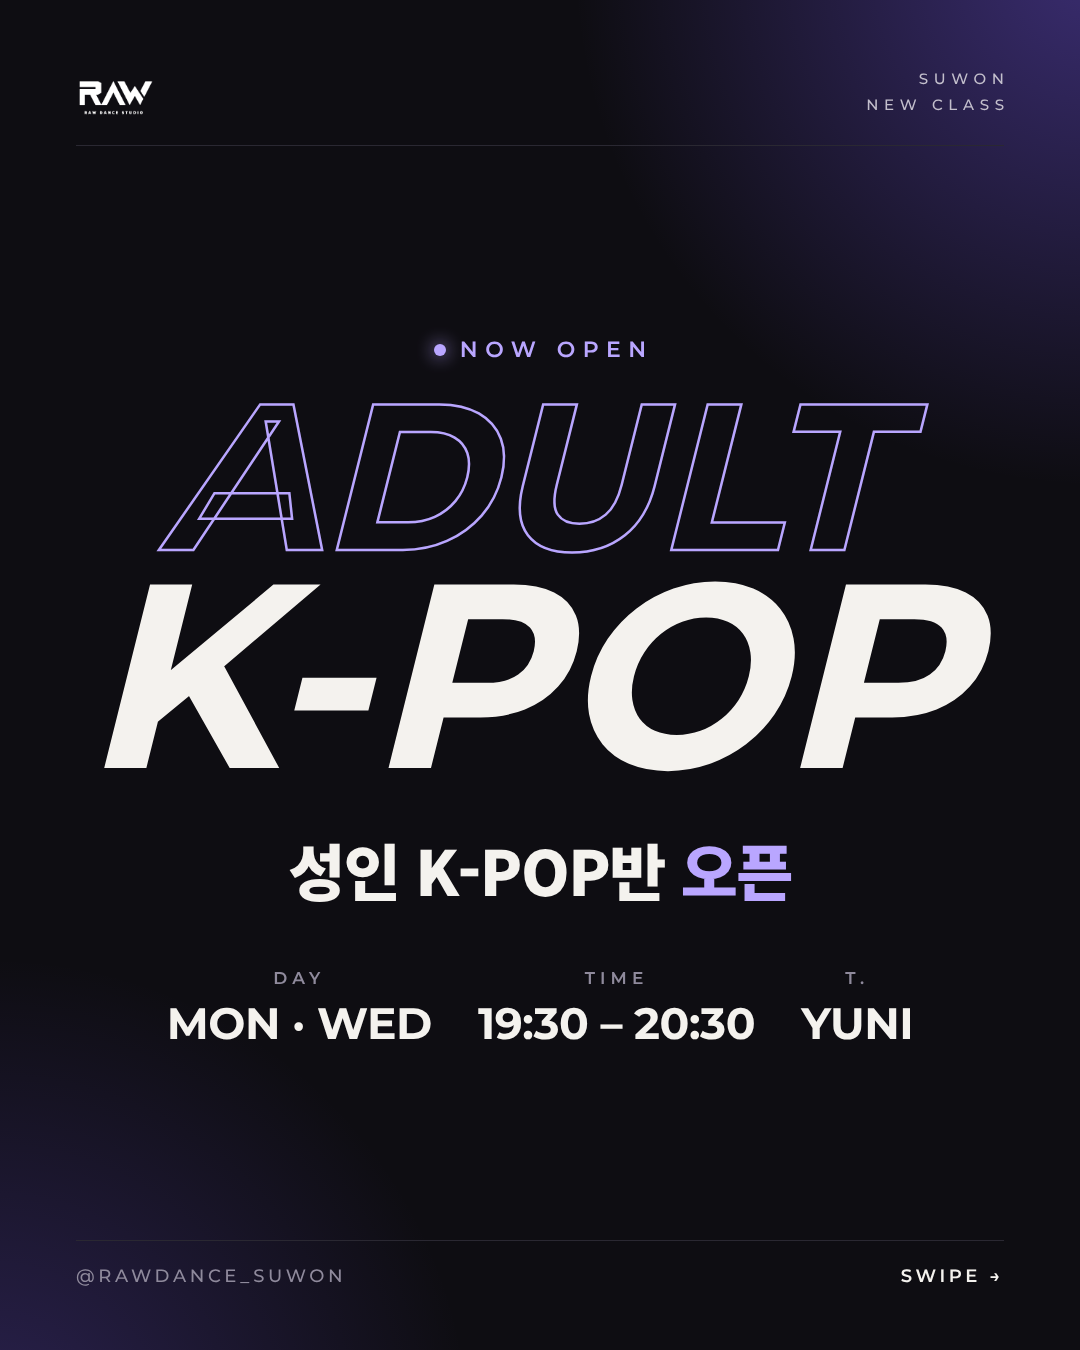
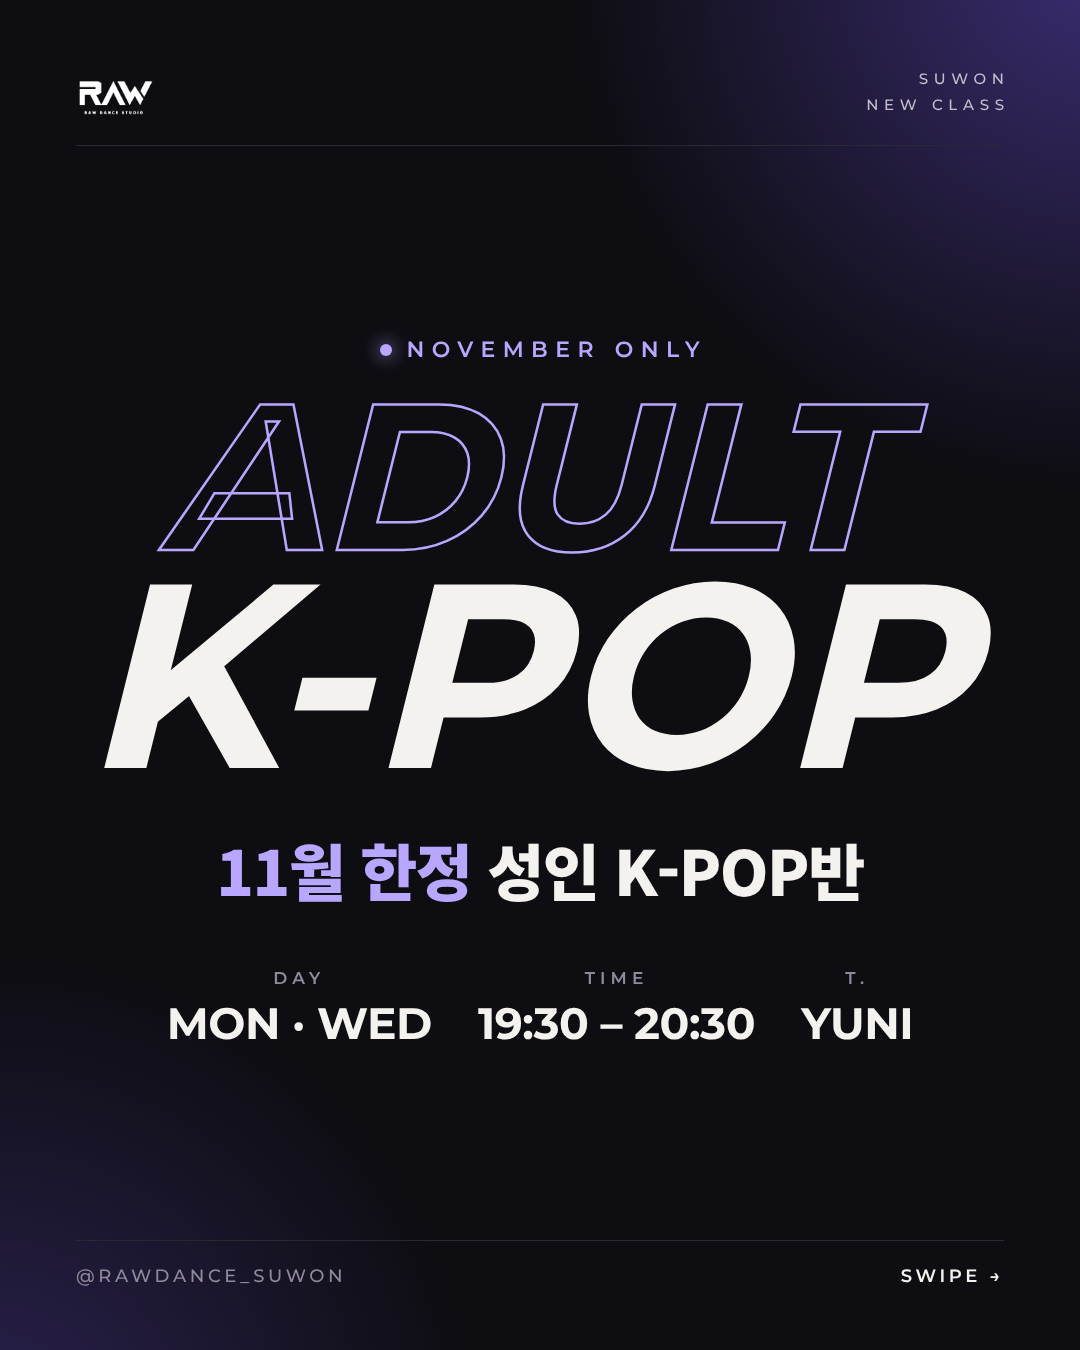
성인 K-POP반: 11월 한정으로 문구 변경 (카드·캡션·문자)
Claude-Session: https://claude.ai/code/session_01CMPXWNa21Fqq6srPZpa27D

Changed region(s): [[0.2139, 0.6222, 0.7944, 0.6844], [0.3361, 0.2489, 0.6111, 0.28]]

diff --git a/content/2026-10-31_adult-kpop-open/card2.html b/content/2026-10-31_adult-kpop-open/card2.html
@@ -11,11 +11,11 @@ body{background:#0e0d12;color:#f4f2ee;font-family:"Noto Sans KR",sans-serif;posi
 
 .mid{flex:1;display:flex;flex-direction:column;justify-content:center;text-align:center}
 .k{font-family:Montserrat,sans-serif;font-weight:600;font-size:20px;letter-spacing:.34em;color:#b9a6ff}
-h1{margin-top:18px;font-size:76px;font-weight:900;letter-spacing:-2px}
+h1{margin-top:18px;font-size:64px;font-weight:900;letter-spacing:-2px}
 .rows{margin-top:40px;border-top:1px solid #2a2832}
-.r{display:flex;flex-direction:column;align-items:center;gap:8px;padding:22px 0;border-bottom:1px solid #2a2832}
+.r{display:flex;flex-direction:column;align-items:center;gap:8px;padding:17px 0;border-bottom:1px solid #2a2832}
 .r small{font-family:Montserrat,sans-serif;font-weight:600;font-size:18px;letter-spacing:.3em;color:#8f8a9c}
-.r b{font-size:44px;font-weight:700;letter-spacing:-.5px}
+.r b{font-size:40px;font-weight:700;letter-spacing:-.5px}
 .r b em{font-style:normal;font-weight:400;color:#c3bfcc;font-size:32px;margin-left:14px}
 .ask{margin-top:44px}
 .ask .k{font-size:18px}
@@ -26,8 +26,9 @@ h1{margin-top:18px;font-size:76px;font-weight:900;letter-spacing:-2px}
 <div class="top"><img src="raw-logo.png"><div class="en">SUWON<br>NEW CLASS</div></div>
 <div class="mid">
 <div class="k">CLASS INFO</div>
-<h1>성인 K-POP반</h1>
+<h1>11월 한정 성인 K-POP반</h1>
 <div class="rows">
+<div class="r"><small>PERIOD</small><b>11월 한 달<em>12월 이후 추후 공지</em></b></div>
 <div class="r"><small>DAY</small><b>월 · 수<em>주 2회</em></b></div>
 <div class="r"><small>TIME</small><b>19:30 ~ 20:30</b></div>
 <div class="r"><small>TEACHER</small><b>YUNI</b></div>

diff --git a/content/2026-10-31_adult-kpop-open/card1.html b/content/2026-10-31_adult-kpop-open/card1.html
@@ -24,9 +24,9 @@ body{background:#0e0d12;color:#f4f2ee;font-family:"Noto Sans KR",sans-serif;posi
 </style></head><body><div class="g1"></div><div class="g2"></div><div class="p">
 <div class="top"><img src="raw-logo.png"><div class="en">SUWON<br>NEW CLASS</div></div>
 <div class="mid">
-<div class="new"><i></i>NOW OPEN</div>
+<div class="new"><i></i>NOVEMBER ONLY</div>
 <div class="t"><span class="a">ADULT</span><span class="b">K-POP</span></div>
-<div class="kr">성인 K-POP반 <span>오픈</span></div>
+<div class="kr"><span>11월 한정</span> 성인 K-POP반</div>
 <div class="when"><div><small>DAY</small><b>MON · WED</b></div><div><small>TIME</small><b>19:30 – 20:30</b></div><div><small>T.</small><b>YUNI</b></div></div>
 </div>
 <div class="bot"><span class="h">@RAWDANCE_SUWON</span><span class="s">SWIPE →</span></div>

diff --git a/content/2026-10-31_adult-kpop-open/make_cards.py b/content/2026-10-31_adult-kpop-open/make_cards.py
@@ -34,9 +34,9 @@ card1 = f"""<!doctype html><html lang="ko"><head><meta charset="utf-8">{FONTS}<s
 </style></head><body><div class="g1"></div><div class="g2"></div><div class="p">
 <div class="top"><img src="raw-logo.png"><div class="en">SUWON<br>NEW CLASS</div></div>
 <div class="mid">
-<div class="new"><i></i>NOW OPEN</div>
+<div class="new"><i></i>NOVEMBER ONLY</div>
 <div class="t"><span class="a">ADULT</span><span class="b">K-POP</span></div>
-<div class="kr">성인 K-POP반 <span>오픈</span></div>
+<div class="kr"><span>11월 한정</span> 성인 K-POP반</div>
 <div class="when"><div><small>DAY</small><b>MON · WED</b></div><div><small>TIME</small><b>19:30 – 20:30</b></div><div><small>T.</small><b>YUNI</b></div></div>
 </div>
 <div class="bot"><span class="h">@RAWDANCE_SUWON</span><span class="s">SWIPE →</span></div>
@@ -45,11 +45,11 @@ card1 = f"""<!doctype html><html lang="ko"><head><meta charset="utf-8">{FONTS}<s
 card2 = f"""<!doctype html><html lang="ko"><head><meta charset="utf-8">{FONTS}<style>{BASE}
 .mid{{flex:1;display:flex;flex-direction:column;justify-content:center;text-align:center}}
 .k{{font-family:Montserrat,sans-serif;font-weight:600;font-size:20px;letter-spacing:.34em;color:#b9a6ff}}
-h1{{margin-top:18px;font-size:76px;font-weight:900;letter-spacing:-2px}}
+h1{{margin-top:18px;font-size:64px;font-weight:900;letter-spacing:-2px}}
 .rows{{margin-top:40px;border-top:1px solid #2a2832}}
-.r{{display:flex;flex-direction:column;align-items:center;gap:8px;padding:22px 0;border-bottom:1px solid #2a2832}}
+.r{{display:flex;flex-direction:column;align-items:center;gap:8px;padding:17px 0;border-bottom:1px solid #2a2832}}
 .r small{{font-family:Montserrat,sans-serif;font-weight:600;font-size:18px;letter-spacing:.3em;color:#8f8a9c}}
-.r b{{font-size:44px;font-weight:700;letter-spacing:-.5px}}
+.r b{{font-size:40px;font-weight:700;letter-spacing:-.5px}}
 .r b em{{font-style:normal;font-weight:400;color:#c3bfcc;font-size:32px;margin-left:14px}}
 .ask{{margin-top:44px}}
 .ask .k{{font-size:18px}}
@@ -60,8 +60,9 @@ h1{{margin-top:18px;font-size:76px;font-weight:900;letter-spacing:-2px}}
 <div class="top"><img src="raw-logo.png"><div class="en">SUWON<br>NEW CLASS</div></div>
 <div class="mid">
 <div class="k">CLASS INFO</div>
-<h1>성인 K-POP반</h1>
+<h1>11월 한정 성인 K-POP반</h1>
 <div class="rows">
+<div class="r"><small>PERIOD</small><b>11월 한 달<em>12월 이후 추후 공지</em></b></div>
 <div class="r"><small>DAY</small><b>월 · 수<em>주 2회</em></b></div>
 <div class="r"><small>TIME</small><b>19:30 ~ 20:30</b></div>
 <div class="r"><small>TEACHER</small><b>YUNI</b></div>

diff --git a/content/2026-10-31_adult-kpop-open/instagram.md b/content/2026-10-31_adult-kpop-open/instagram.md
@@ -1,4 +1,4 @@
-# 인스타 게시물: 성인 K-POP반 오픈 (카드뉴스 2장, 2026-10-31)
+# 인스타 게시물: 11월 한정 성인 K-POP반 오픈 (카드뉴스 2장, 2026-10-31)
 
 > 사실: 월·수 19:30~20:30, T. YUNI (원장님 2026-10-31). 교습비·첫 수업일·체험 여부는 미확인 → 받으면 캡션에 금액 그대로 추가.
 
@@ -6,11 +6,14 @@
 ```
 #수원댄스학원 #로우댄스학원
 
-📣 성인 K-POP반 OPEN 📣
+📣 11월 한정 성인 K-POP반 OPEN 📣
 
 ✅ T. YUNI
 ✅ 매주 월·수 19:30 ~ 20:30 (주 2회)
 ✅ 대상 : 성인
+
+11월 한 달 운영하는 반이에요.
+12월 이후 시간표는 추후 공지합니다.
 
 신청·문의
 인스타 DM
@@ -25,8 +28,10 @@
 ```
 [로우댄스학원 수원점]
 안녕하세요, 로우댄스학원 수원점입니다.
-기다려 주신 성인 K-POP반이 열렸습니다.
+기다려 주신 성인 K-POP반이
+11월 한정으로 열렸습니다.
 
+· 기간 : 11월 한 달 (12월 이후 시간표는 추후 공지)
 · 요일 : 매주 월·수 (주 2회)
 · 시간 : 19:30 ~ 20:30
 · 강사 : YUNI 선생님
@@ -39,4 +44,4 @@
 수원시 팔달구 매산로 136, 4층
 ```
 
-> 확인필요: 교습비(모집 광고·문자에 금액 그대로 적어야 함), 첫 수업 날짜, 무료 체험 여부, 수요일 19:30 오디션반(YUNI, B홀)과 시간 겹침.
+> 확인필요: 교습비(모집 광고·문자에 금액 그대로 적어야 함), 첫 수업 날짜, 무료 체험 여부. (오디션반은 11월 휴강이라 시간 겹침 없음, 2026-10-31 원장님 확인)
